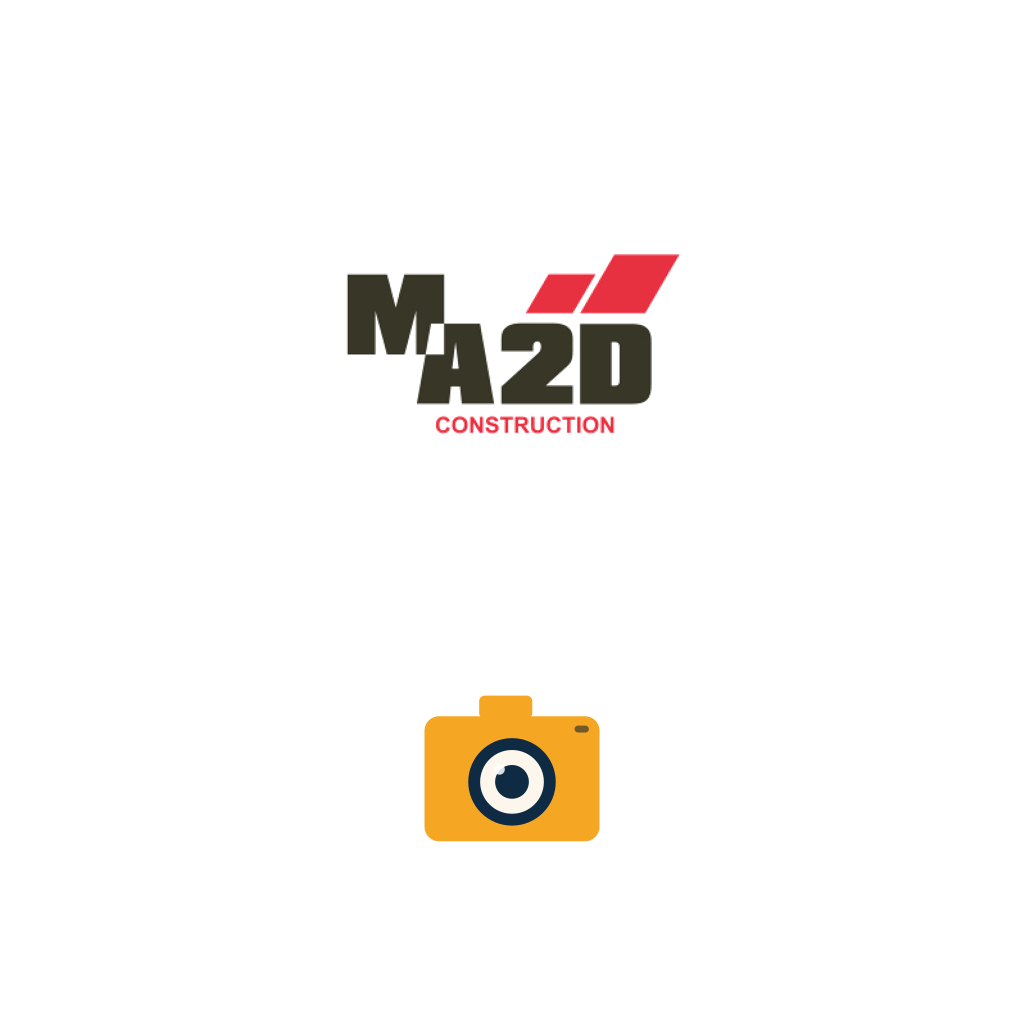
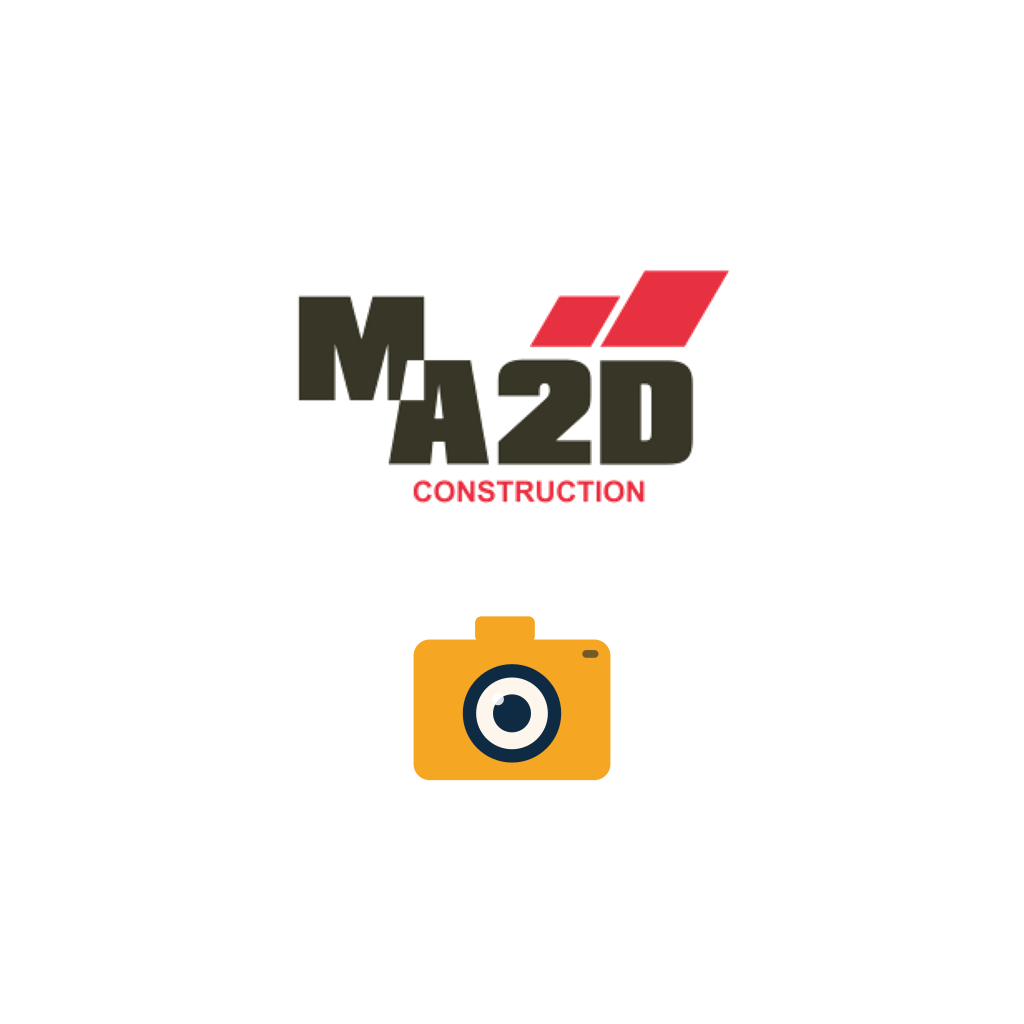
Rename the app to MA2D Photo and move the whole UI to a light theme
- App name is now "MA2D Photo" (launcher label, Home header, About header).
- Everything readable on white: the login screen and the navigation header
  drop the navy background for white with navy text, and the status-bar
  icons switch to dark to match. The navy stays as an accent (titles,
  selected building, status banner), not as a background behind content.
- App icon reworked so both marks actually read at launcher size: the MA2D
  logo is much larger across the top and the camera sits right beneath it
  instead of floating in empty space.
- "Conception et développement" moved to the bottom of the À propos screen,
  after Sécurité, as requested.

Claude-Session: https://claude.ai/code/session_01QCRonhS5BmzGaoCYQ9Gga9

Changed region(s): [[0.2812, 0.25, 0.7188, 0.5], [0.4062, 0.5938, 0.5938, 0.8438]]

diff --git a/ma2d-photo/src/screens/LoginScreen.tsx b/ma2d-photo/src/screens/LoginScreen.tsx
@@ -25,10 +25,10 @@ export default function LoginScreen() {
   return (
     <SafeAreaView style={styles.container}>
       <View style={styles.content}>
-        <Animated.View style={[styles.logoCard, { opacity, transform: [{ scale }] }]}>
+        <Animated.View style={{ opacity, transform: [{ scale }] }}>
           <Image source={require('../../assets/ma2d-logo.jpg')} style={styles.logoImage} resizeMode="contain" />
         </Animated.View>
-        <Text style={styles.logo}>MA2D</Text>
+        <Text style={styles.logo}>MA2D PHOTO</Text>
         <Text style={styles.subtitle}>CONSTRUCTION</Text>
         <Text style={[typography.body, styles.tagline]}>
           Photos de chantier, classées automatiquement dans OneDrive.
@@ -36,7 +36,7 @@ export default function LoginScreen() {
 
         {!configured && (
           <View style={styles.warningRow}>
-            <Ionicons name="warning" size={16} color={colors.accent} />
+            <Ionicons name="warning" size={16} color={colors.warning} />
             <Text style={styles.warning}>
               Configuration Microsoft manquante. Voir docs/ENTRA_ID_SETUP.md pour renseigner
               MICROSOFT_CLIENT_ID.
@@ -45,7 +45,7 @@ export default function LoginScreen() {
         )}
         {error && (
           <View style={styles.warningRow}>
-            <Ionicons name="warning" size={16} color={colors.accent} />
+            <Ionicons name="warning" size={16} color={colors.warning} />
             <Text style={styles.warning}>{error}</Text>
           </View>
         )}
@@ -66,27 +66,20 @@ export default function LoginScreen() {
 }
 
 const styles = StyleSheet.create({
-  container: { flex: 1, backgroundColor: colors.primary },
+  // White throughout: the MA2D wordmark is dark brown/red and was
+  // unreadable on the navy background it used to sit on.
+  container: { flex: 1, backgroundColor: colors.surface },
   content: { flex: 1, alignItems: 'center', justifyContent: 'center', paddingHorizontal: 32 },
-  // The MA2D wordmark is dark brown/red: it needs a white plate to be
-  // readable on the navy screen, exactly as it appears on the company's site.
-  logoCard: {
-    backgroundColor: '#FFFFFF',
-    borderRadius: 18,
-    paddingHorizontal: 24,
-    paddingVertical: 18,
-    marginBottom: 24,
-  },
-  logoImage: { width: 180, height: 100 },
-  logo: { fontSize: 48, fontWeight: '900', color: colors.textOnPrimary, letterSpacing: 2 },
+  logoImage: { width: 220, height: 120, marginBottom: 16 },
+  logo: { fontSize: 44, fontWeight: '900', color: colors.primary, letterSpacing: 2 },
   subtitle: { fontSize: 16, fontWeight: '700', color: colors.accent, letterSpacing: 4, marginBottom: 24 },
-  tagline: { color: colors.textOnPrimary, textAlign: 'center', marginBottom: 40, opacity: 0.85 },
+  tagline: { color: colors.textSecondary, textAlign: 'center', marginBottom: 40 },
   warningRow: { flexDirection: 'row', alignItems: 'flex-start', gap: 8, marginBottom: 20, paddingHorizontal: 8 },
-  warning: { color: colors.accent, textAlign: 'left', flex: 1 },
+  warning: { color: colors.warning, textAlign: 'left', flex: 1 },
   button: { width: '100%' },
   credit: {
-    color: colors.textOnPrimary,
-    opacity: 0.45,
+    color: colors.textSecondary,
+    opacity: 0.7,
     textAlign: 'center',
     fontSize: 12,
     paddingBottom: 16,

diff --git a/ma2d-photo/src/screens/AboutScreen.tsx b/ma2d-photo/src/screens/AboutScreen.tsx
@@ -14,7 +14,7 @@ export default function AboutScreen() {
     <ScrollView style={styles.container} contentContainerStyle={styles.content}>
       <View style={styles.brandHeader}>
         <Image source={require('../../assets/ma2d-logo.jpg')} style={styles.logo} resizeMode="contain" />
-        <Text style={styles.appName}>MA2D Construction</Text>
+        <Text style={styles.appName}>MA2D Photo</Text>
         <Text style={styles.appTagline}>Gestion automatique des photos de chantier</Text>
         <View style={styles.versionPill}>
           <Text style={styles.versionText}>Version {APP_VERSION}</Text>
@@ -43,6 +43,17 @@ export default function AboutScreen() {
 
       <View style={styles.card}>
         <View style={styles.sectionHeaderRow}>
+          <Ionicons name="shield-checkmark-outline" size={18} color={colors.primary} />
+          <Text style={styles.sectionTitle}>Sécurité</Text>
+        </View>
+        <Text style={styles.paragraph}>
+          Connexion via Microsoft Entra ID. Aucun mot de passe ni identifiant Microsoft n'est
+          stocké dans l'application — uniquement une session sécurisée gérée par Microsoft.
+        </Text>
+      </View>
+
+      <View style={styles.card}>
+        <View style={styles.sectionHeaderRow}>
           <Ionicons name="person-circle-outline" size={18} color={colors.primary} />
           <Text style={styles.sectionTitle}>Conception et développement</Text>
         </View>
@@ -56,17 +67,6 @@ export default function AboutScreen() {
         <Text style={styles.paragraph}>
           Application conçue et développée en interne pour répondre aux besoins réels des
           équipes de chantier de MA2D Construction.
-        </Text>
-      </View>
-
-      <View style={styles.card}>
-        <View style={styles.sectionHeaderRow}>
-          <Ionicons name="shield-checkmark-outline" size={18} color={colors.primary} />
-          <Text style={styles.sectionTitle}>Sécurité</Text>
-        </View>
-        <Text style={styles.paragraph}>
-          Connexion via Microsoft Entra ID. Aucun mot de passe ni identifiant Microsoft n'est
-          stocké dans l'application — uniquement une session sécurisée gérée par Microsoft.
         </Text>
       </View>
 

diff --git a/ma2d-photo/src/navigation/RootNavigator.tsx b/ma2d-photo/src/navigation/RootNavigator.tsx
@@ -32,12 +32,13 @@ export default function RootNavigator() {
     <NavigationContainer ref={navigationRef}>
       <Stack.Navigator
         screenOptions={{
-          headerStyle: { backgroundColor: colors.primary },
-          headerTintColor: colors.textOnPrimary,
-          headerTitleStyle: { fontWeight: '700' },
+          headerStyle: { backgroundColor: colors.surface },
+          headerTintColor: colors.primary,
+          headerTitleStyle: { fontWeight: '700', color: colors.primary },
+          headerShadowVisible: true,
           headerRight: () => (
             <Pressable onPress={() => setMenuOpen(true)} hitSlop={10} style={{ paddingHorizontal: 4 }}>
-              <Ionicons name="menu" size={26} color={colors.textOnPrimary} />
+              <Ionicons name="menu" size={26} color={colors.primary} />
             </Pressable>
           ),
         }}
@@ -46,7 +47,7 @@ export default function RootNavigator() {
           <Stack.Screen name="Login" component={LoginScreen} options={{ headerShown: false }} />
         ) : (
           <>
-            <Stack.Screen name="Home" component={HomeScreen} options={{ title: 'MA2D Construction' }} />
+            <Stack.Screen name="Home" component={HomeScreen} options={{ title: 'MA2D Photo' }} />
             <Stack.Screen name="Admin" component={AdminScreen} options={{ title: 'Administration' }} />
             <Stack.Screen
               name="AdminNewProject"

diff --git a/ma2d-photo/App.tsx b/ma2d-photo/App.tsx
@@ -36,7 +36,8 @@ export default function App() {
 
   return (
     <>
-      <StatusBar style="light" />
+      {/* Dark status-bar icons: every screen (header included) is now light. */}
+      <StatusBar style="dark" />
       <RootNavigator />
     </>
   );
